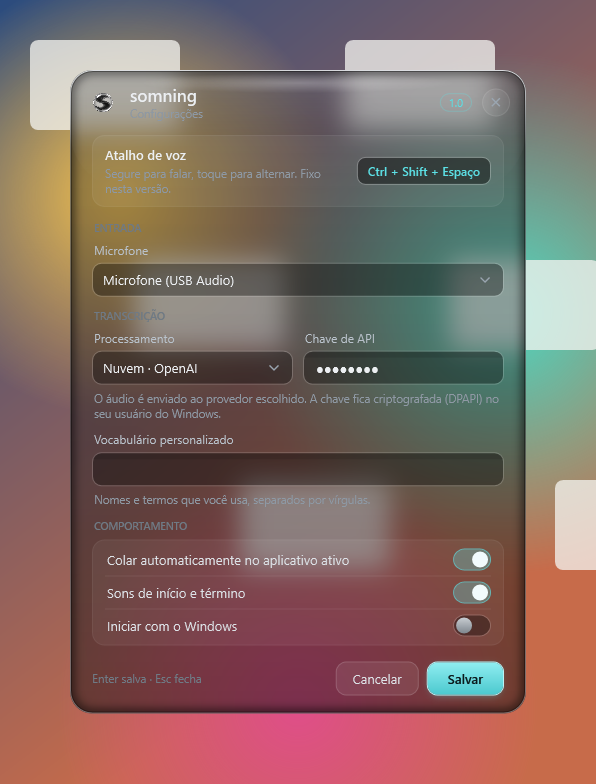
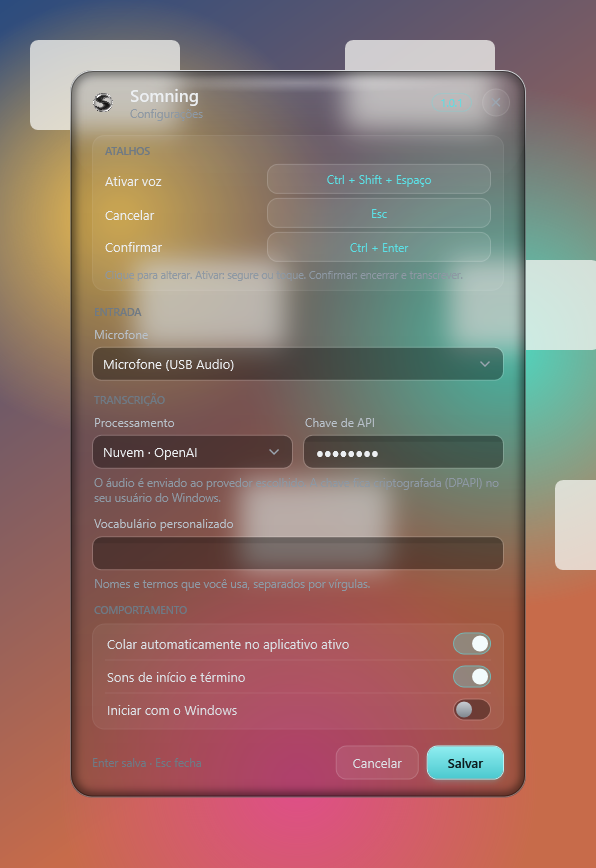
chore(quick-261030-l0p): prepara Somning 1.0.1 para release Latest

diff --git a/README.md b/README.md
@@ -5,7 +5,7 @@
 ![Somning — Sua voz. Seu texto. Ditado em português, direto no Windows.](docs/images/hero.svg)
 
 <p align="center">
-  <strong>Windows 10 x64 · Português do Brasil · Whisper local · Protótipo 1.0</strong>
+  <strong>Windows 10 x64 · Português do Brasil · Whisper local · Protótipo 1.0.1</strong>
 </p>
 
 <p align="center">
@@ -19,7 +19,7 @@ O **Somning** transforma sua fala em texto no campo em que você está trabalhan
 
 O processamento local usa **Whisper**, em um processo separado. Depois de baixar os modelos, você pode ditar offline. **Groq** e **OpenAI** são opções de nuvem ativadas por você, com sua própria chave.
 
-> **Versão 1.0 do protótipo.** O fluxo de ditado está implementado; aparência nativa, compatibilidade entre aplicativos e fluidez em monitores de alta frequência continuam em validação. Veja as [limitações conhecidas](docs/RELEASE-1.0.md).
+> **Versão 1.0.1 do protótipo.** O fluxo de ditado está implementado; aparência nativa, compatibilidade entre aplicativos e fluidez em monitores de alta frequência continuam em validação. Veja as [limitações conhecidas](docs/RELEASE-1.0.md).
 
 ## Como funciona
 
@@ -27,7 +27,7 @@ O processamento local usa **Whisper**, em um processo separado. Depois de baixar
 | :--- | :--- | :--- |
 | Pressione **Ctrl + Shift + Espaço** no campo de destino. | A gota de vidro acompanha o nível da sua voz. | O Somning transcreve, copia e tenta colar o texto. |
 
-Um toque curto no atalho também permite alternar a gravação. Se a colagem automática não ocorrer, use **Ctrl+V**: o texto continua na área de transferência.
+Um toque curto no atalho também permite alternar a gravação. Em **Configurações → Atalhos**, clique na ação e pressione a combinação desejada. O padrão para ativar é **Ctrl + Shift + Espaço**; **Esc** cancela a gravação e **Ctrl + Enter** confirma, encerrando a gravação para transcrever. As três combinações devem ser diferentes e mudam ao salvar. Os atalhos ficam suspensos enquanto as configurações estão abertas para você editá-los sem iniciar um ditado. Se a colagem automática não ocorrer, use **Ctrl+V**: o texto continua na área de transferência.
 
 ![Sequência da entrada viscosa da gota, renderizada pelo motor visual do Somning sobre um fundo sintético.](docs/images/voice-animation.png)
 
@@ -46,7 +46,7 @@ O aplicativo permanece na **bandeja do Windows**. O menu dá acesso às configur
 | Recurso | No protótipo |
 | :--- | :--- |
 | Ditado em pt-BR | Whisper local, com modelos baixados separadamente |
-| Atalho global | Segurar para falar ou toque para alternar |
+| Atalhos globais | Combinações independentes para ativar, cancelar e confirmar |
 | Destino do texto | Área de transferência e colagem automática configurável |
 | Microfone e vocabulário | Seleção de dispositivo e termos personalizados |
 | Nuvem opcional | Groq ou OpenAI, com chave protegida pelo Windows via DPAPI |
@@ -57,7 +57,7 @@ O aplicativo permanece na **bandeja do Windows**. O menu dá acesso às configur
 
 **Requisitos:** Windows 10 x64, microfone e espaço para o aplicativo e os modelos. O modelo principal ocupa aproximadamente 574 MB. O pacote inclui o runtime .NET; o uso do aplicativo não exige o SDK.
 
-Baixe **Somning-1.0.0-Setup.exe** na [Release 1.0](https://github.com/JotaEfi/somning/releases/tag/v1.0.0-prototype.1) e siga o assistente. A instalação é por usuário e inclui desinstalador. Os modelos são baixados separadamente pelo atalho **Somning - Baixar modelos** no Menu Iniciar. O código-fonte também está disponível em um ZIP separado na mesma release.
+Baixe **Somning-1.0.1-Setup.exe** na [release mais recente](https://github.com/JotaEfi/somning/releases/latest) e siga o assistente. A instalação é por usuário e inclui desinstalador. Os modelos são baixados separadamente pelo atalho **Somning - Baixar modelos** no Menu Iniciar. O código-fonte também está disponível em um ZIP separado na mesma release.
 
 Se preferir o pacote ZIP do aplicativo:
 
@@ -110,13 +110,13 @@ powershell -NoProfile -File tools/package.ps1
 
 Para gerar o Setup.exe, instale Inno Setup 6 e execute `powershell -NoProfile -File tools/setup.ps1` após o empacotamento.
 
-Saída: `publish/Somning-1.0.0-win-x64.zip`, com checksum `.sha256` ao lado. Modelos não são incluídos. Não distribua builds Debug nem pacotes com `-WithHarness`.
+Saída: `publish/Somning-1.0.1-win-x64.zip`, com checksum `.sha256` ao lado. Modelos não são incluídos. Não distribua builds Debug nem pacotes com `-WithHarness`.
 
 **Testes de integração:** alguns usam foco, teclado e desktop real. Execute esses casos apenas em uma sessão dedicada; não rode toda a suíte enquanto usa o computador.
 
 ## Estado da versão 1.0
 
-O build Release foi validado com avisos tratados como erros. A última execução completa dos testes Core passou com **367 testes**; os **11 testes de configurações sem interação com o desktop** também passaram. Esses números não significam cobertura de todos os aplicativos ou aprovação visual do Windows real.
+O build Release foi validado com avisos tratados como erros. A última execução completa dos testes Core passou com **384 testes**; os **17 testes de configurações sem interação com o desktop** também passaram. Esses números não significam cobertura de todos os aplicativos ou aprovação visual do Windows real.
 
 A colagem em Word, alvos elevados/UIPI e outros cenários do desktop tem ressalvas. Instalação em máquina limpa, DPI e comportamento após suspensão/logon ainda exigem verificação. Os detalhes estão nas [notas do protótipo](docs/RELEASE-1.0.md) e no [changelog](CHANGELOG.md).
 

diff --git a/docs/RELEASE-1.0.md b/docs/RELEASE-1.0.md
@@ -1,8 +1,8 @@
-# Publicação inicial — Somning 1.0.0
+# Somning 1.0.1 — protótipo
 
 ## Estado
 
-Preparação local da versão 1.0.0 autorizada pelo dono. Identidade inspirada na gota aprovada em 29/10/2026. Código do protótipo autorizado para publicação pública em github.com/JotaEfi/somning. Os pacotes binários continuam sendo preparados localmente.
+Versão 1.0.1 do protótipo: atalhos configuráveis, recorte nativo do vidro e ajustes da bandeja. Publicação no GitHub autorizada pelo dono, com instalador, ZIP do aplicativo, código-fonte separado e checksums. A release é marcada como Latest para aparecer na página inicial do repositório; isso não elimina as limitações de validação listadas abaixo.
 
 ## Conteúdo esperado do pacote
 
@@ -12,7 +12,7 @@ Preparação local da versão 1.0.0 autorizada pelo dono. Identidade inspirada n
 - Documentação de uso, instalação, privacidade e componentes de terceiros.
 - Manifesto de versão e resumo SHA-256 dos artefatos de distribuição.
 
-## Antes da publicação externa
+## Verificações de distribuição e limitações
 
 - Confirmar o canal de distribuição.
 - Definir contato de suporte. O código é distribuído sob a licença MIT, com titular JotaEfi.

diff --git a/docs/INSTALACAO.md b/docs/INSTALACAO.md
@@ -1,4 +1,4 @@
-# Instalação do Somning 1.0
+# Instalação do Somning 1.0.1
 
 ## Requisitos
 
@@ -6,7 +6,7 @@ Windows 10 x64, microfone funcional e espaço para o programa e modelos. O model
 
 ## Instalador Setup.exe
 
-Baixe `Somning-1.0.0-Setup.exe` na [Release 1.0](https://github.com/JotaEfi/somning/releases/tag/v1.0.0-prototype.1). O assistente instala por usuário em `%LOCALAPPDATA%\Somning\app`, cria atalhos e registra o desinstalador. Os modelos e dados pessoais ficam fora da pasta do programa e são preservados na desinstalação. Após instalar, execute **Somning - Baixar modelos** no Menu Iniciar. O instalador não tem assinatura digital.
+Baixe `Somning-1.0.1-Setup.exe` na [release mais recente](https://github.com/JotaEfi/somning/releases/latest). O assistente instala por usuário em `%LOCALAPPDATA%\Somning\app`, cria atalhos e registra o desinstalador. Os modelos e dados pessoais ficam fora da pasta do programa e são preservados na desinstalação. Após instalar, execute **Somning - Baixar modelos** no Menu Iniciar. O instalador não tem assinatura digital.
 
 ## Pacote ZIP alternativo
 

diff --git a/CHANGELOG.md b/CHANGELOG.md
@@ -1,5 +1,13 @@
 # Histórico de versões
 
+## 1.0.1 — atalhos configuráveis e polimento (2026-10-30)
+
+- Combinações independentes para ativar o ditado, cancelar e confirmar a gravação, com validação e atualização ao salvar.
+- Confirmar encerra a captura atual para transcrever; cancelar descarta a gravação. Padrões: Ctrl+Shift+Espaço, Esc e Ctrl+Enter.
+- Configurações com recorte nativo arredondado, vidro aproximadamente 40% mais transparente e título Somning.
+- Registro da bandeja com novas tentativas e recuperação após reinício do Explorer.
+- Menu da bandeja limitado a uma instância, com fechamento por ação, Esc e perda de ativação.
+- Instalador por usuário, ZIP do aplicativo, código-fonte separado e SHA256 na release Latest.
 ## 1.0.0 — protótipo inicial (2026-10-29)
 
 - Ditado local em pt-BR com Whisper, atalho global com modos segurar/alternar e processamento em processo separado.
